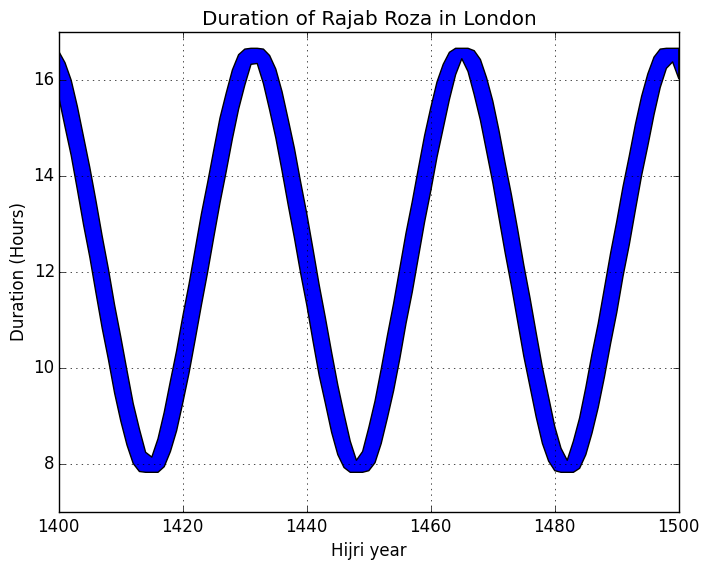
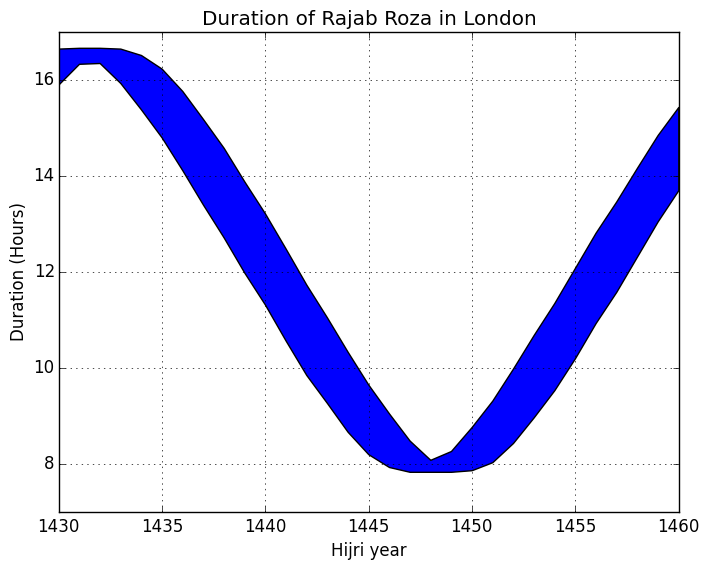
Restrict range of data from 1430 to 1460, inclusive.

diff --git a/plot_data.py b/plot_data.py
@@ -5,20 +5,23 @@ import matplotlib.pyplot as pyplot
 from rajab_roza import RajabRoza
 
 filename = "data/london-durations.yml"
+years = range(1430, 1461)
 
 def duration_in_hours(duration):
     return duration.total_seconds()/3600.0
 
 if __name__ == '__main__':
     rajab_roza = RajabRoza.load_from_yaml(filename)
-    years = range(rajab_roza.start_year, rajab_roza.end_year + 1)
+    start_index = years[0] - rajab_roza.start_year
+    data_index_range = range(start_index, start_index + len(years))
+
     min_durations = [
         duration_in_hours(rajab_roza.durations[i][0])
-        for i in range(len(years))
+        for i in data_index_range
     ]
     max_durations = [
         duration_in_hours(rajab_roza.durations[i][1])
-        for i in range(len(years))
+        for i in data_index_range
     ]
 
     pyplot.fill_between(years, min_durations, max_durations)
